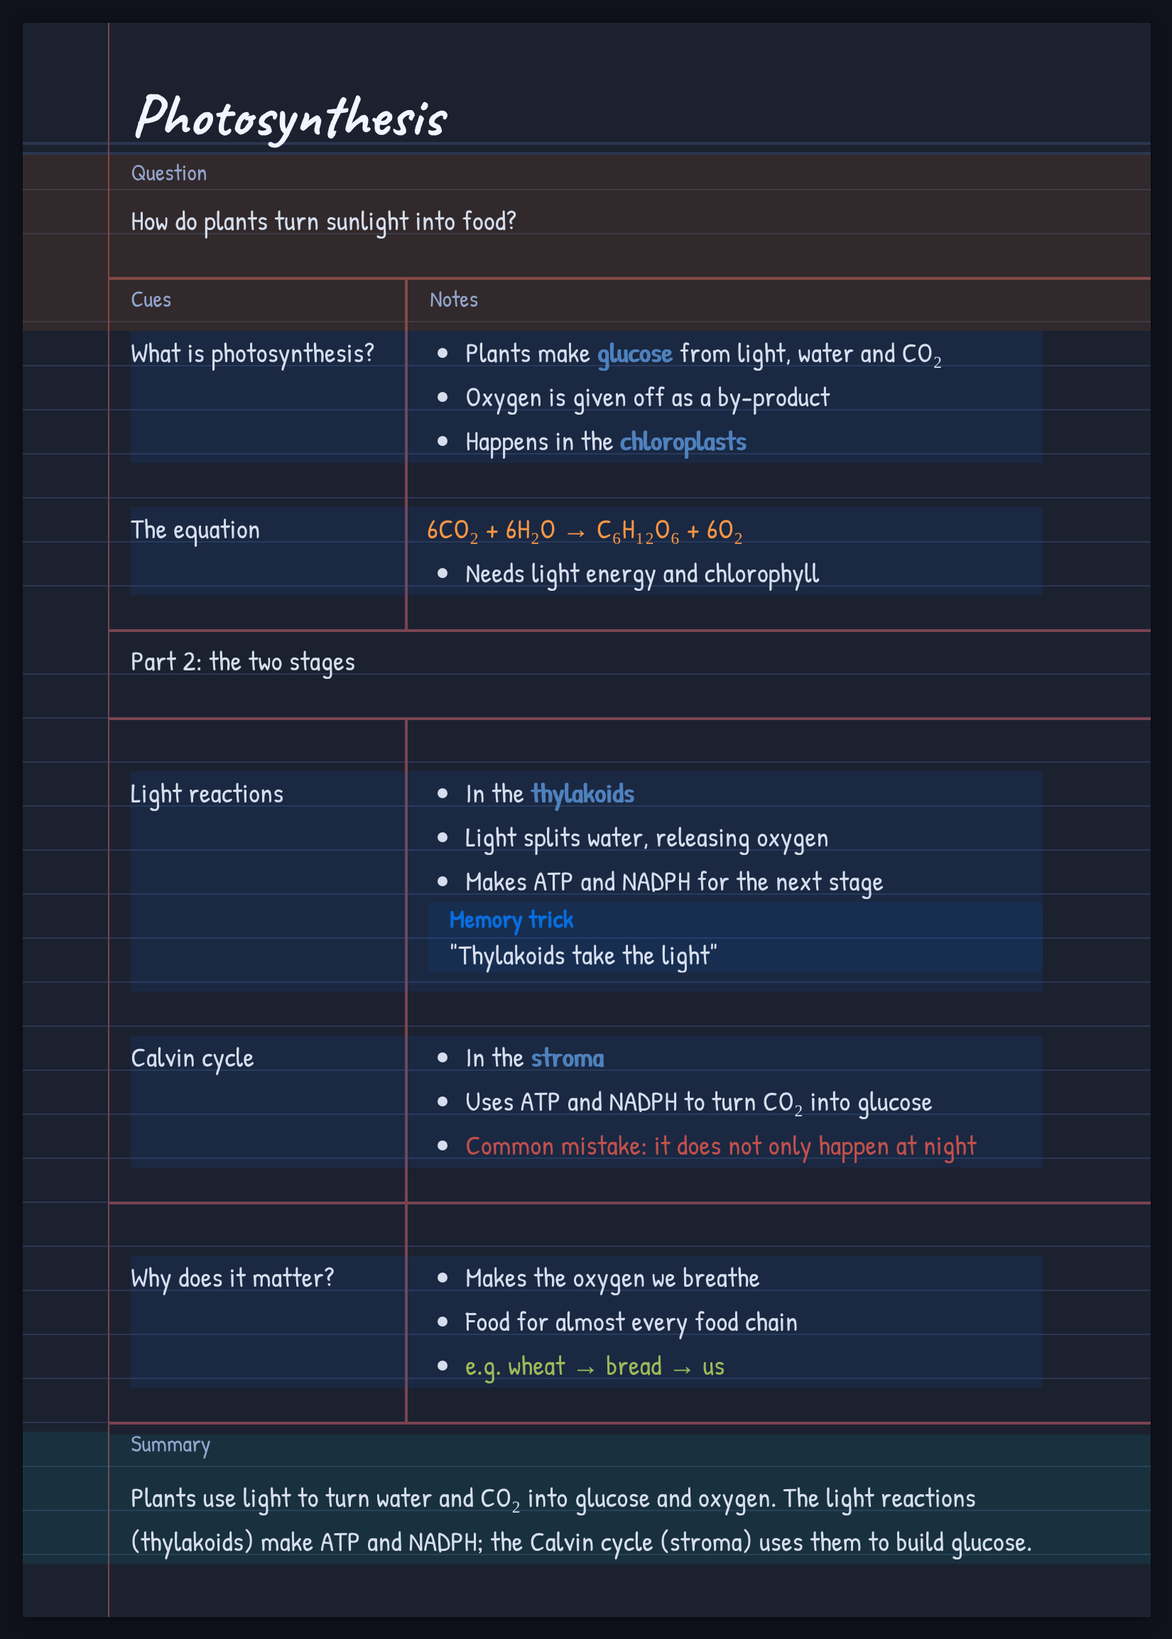
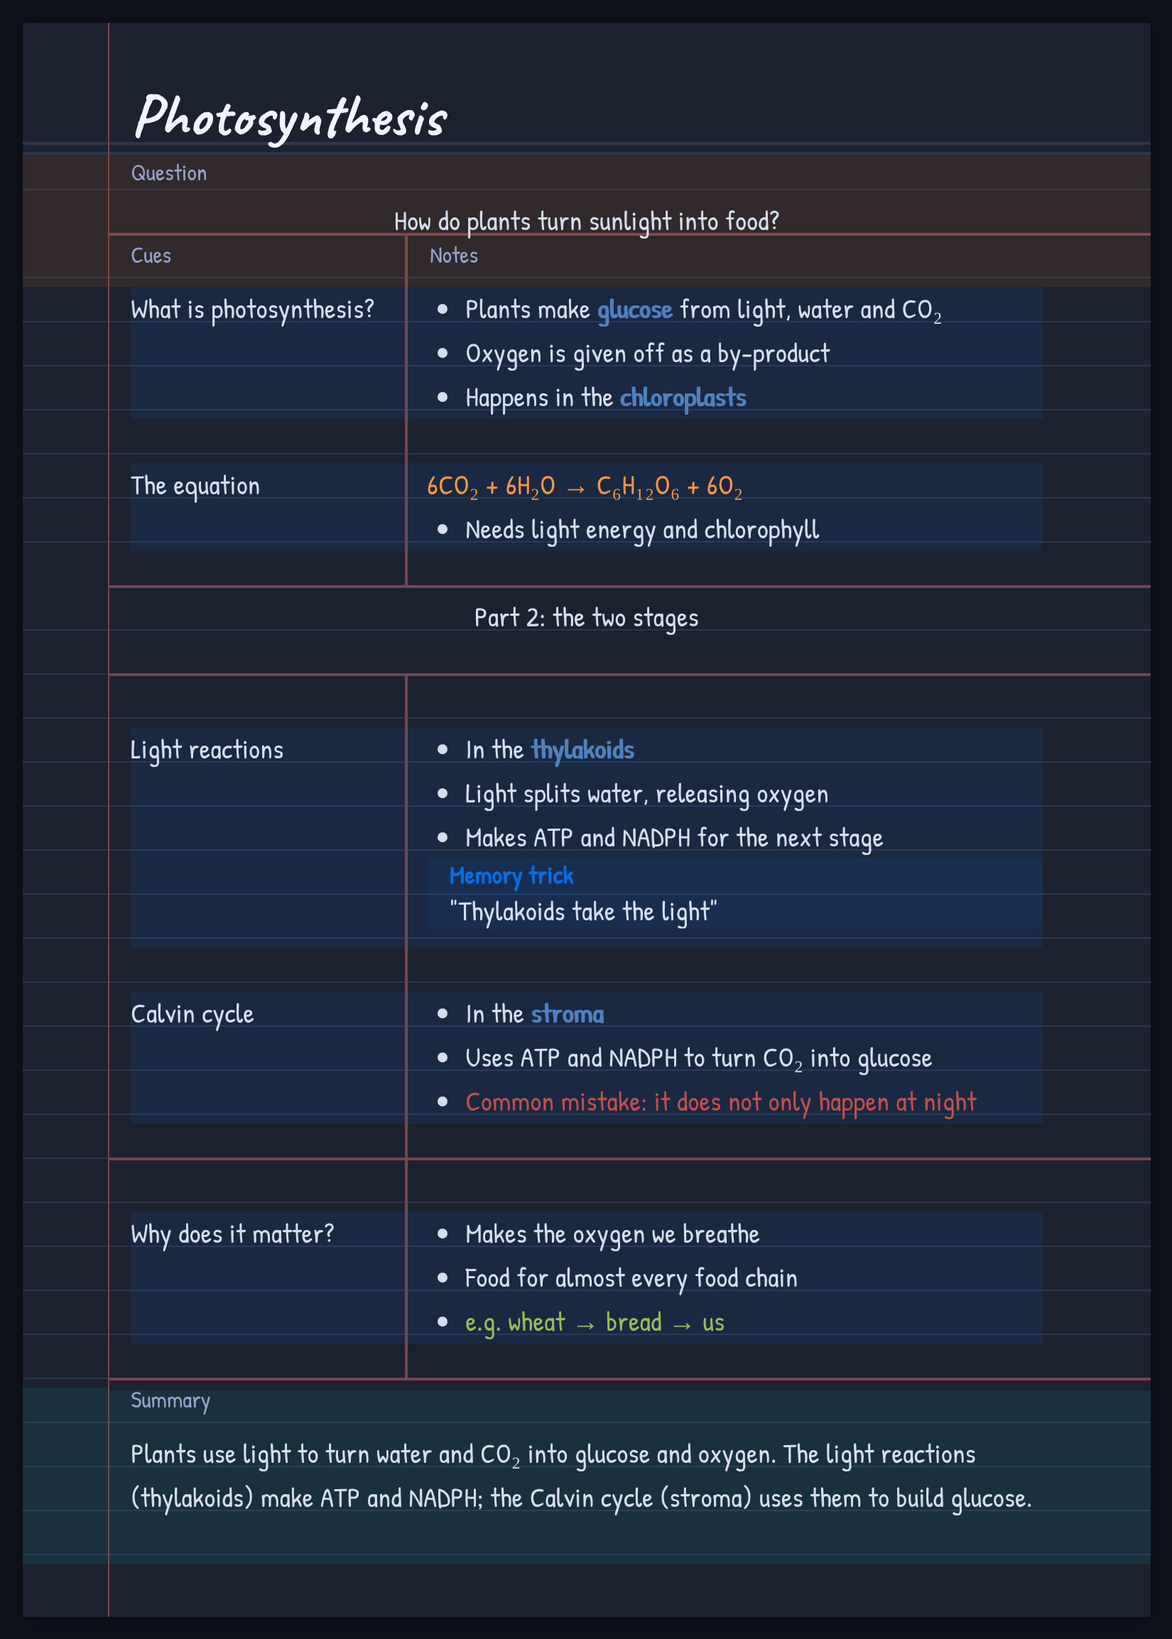
Centre the question and full-width lines; one-line question; fit titles
- The text of [!question] and [!wide] is centred (setting to put it on
  the left); [!question] keeps 1 line by default.
- A title that fits stays on one line: measured against the real bar in
  reading view and again when web fonts finish loading; a note without a
  date gives the title the date's room.
- Tests for the title rules.

Claude-Session: https://claude.ai/code/session_017nigWqws9EFca1zJKhGji6

diff --git a/main.js b/main.js
@@ -52,12 +52,14 @@ const SETTINGS = [
   { section: 'Cornell notes' },
   { key: 'cn-cue', type: 'slider', min: 0.15, max: 0.5, step: 0.01, def: 0.3, pct: true, name: 'Cue column width',
     desc: 'Share of the page for the cue column (left of the divider).' },
-  { key: 'cn-question-lines', type: 'slider', min: 1, max: 6, step: 1, def: 2, name: 'Essential question lines',
+  { key: 'cn-question-lines', type: 'slider', min: 1, max: 6, step: 1, def: 1, name: 'Essential question lines',
     desc: 'Ruled lines kept for the [!question] at the top of the page.' },
   { key: 'cn-summary-rows', type: 'slider', min: 3, max: 15, step: 1, def: 5, name: 'Summary height',
     desc: 'Lines the [!summary] takes at the bottom of the last page, its "Summary" label included.' },
   { key: 'cn-summary-min-rows', type: 'slider', min: 2, max: 5, step: 1, def: 3, name: 'Summary minimum height',
     desc: 'When the notes need the room, the summary shrinks, but never below this (or below its text). If that does not fit, it moves to a new page.' },
+  { key: 'centre', type: 'toggle', cls: 'cn-question-left', invert: true, def: true, name: 'Centre the question and full-width lines',
+    desc: 'The text of [!question] and [!wide] in the middle of the page. Off: it starts on the left.' },
   { key: 'cn-wide-lines', type: 'slider', min: 1, max: 6, step: 1, def: 2, name: 'Full-width block lines',
     desc: 'Ruled lines a [!wide] block keeps at least. It grows with longer text.' },
   { key: 'cn-label-cue', type: 'text', def: 'Cues', quote: true, name: 'Cue column label' },
@@ -158,10 +160,12 @@ function addSummarySizer(root) {
 // the embed. The copy goes first in the block so it is laid out like any other callout.
 // `undo` (reading view only) collects what to take away again before the next layout.
 // A note title too long for the title bar goes on two lines, a little smaller, instead of being cut
-// off (lined-paper.css: h1.lp-title-wrap). CSS can't tell whether text fits, so it is measured
-// here: the title's width on one line, in units of its font size, against the room in an A4 title
-// bar (the sheet minus the margin and the date's space) at the A4 title size. That holds for
-// reading view and the PDF alike, whatever the window is like while the export is being prepared.
+// off (lined-paper.css: h1.lp-title-wrap); a title that fits stays on one line at full size. CSS
+// can't tell whether text fits, so it is measured here: the title's width on one line, in units of
+// its font size, at the A4 title size, against the room in an A4 title bar (the sheet minus the
+// title's own padding: the margin, and the date's space when the note has a date), so it holds for
+// the PDF whatever the window is like while the export is being prepared; in reading view, against
+// the bar on screen. Measured again once the web fonts have loaded.
 function fitTitles(root, undo) {
   for (const h of root.querySelectorAll('h1')) {
     const view = h.closest('.markdown-preview-view.lined-paper');
@@ -170,14 +174,17 @@ function fitTitles(root, undo) {
     if (had) h.classList.remove('lp-title-wrap');                 // (measured on one line)
     const range = document.createRange();
     range.selectNodeContents(h);
-    const size = parseFloat(getComputedStyle(h).fontSize);
+    const cs = getComputedStyle(h);
+    const size = parseFloat(cs.fontSize);
     let wrap = false;
-    if (size) {
-      if (document.body.classList.contains('lp-no-pages') && view.closest('.markdown-reading-view')) {
-        wrap = h.scrollWidth > h.clientWidth + 1;                 // (no A4 pages: the bar is the pane's width)
+    if (size && h.textContent.trim()) {
+      if (view.closest('.markdown-reading-view')) {
+        // reading view: the bar on screen is the real one (an A4 sheet, or the pane without A4 pages)
+        wrap = range.getBoundingClientRect().width > h.clientWidth - parseFloat(cs.paddingLeft) - parseFloat(cs.paddingRight) + 1;
       } else {
-        const room = px(view, '210mm') - px(view, 'var(--pad-x)') - 200;   // (200px: the date's space, as in the CSS)
-        wrap = (range.getBoundingClientRect().width / size) * px(view, 'calc(var(--lp-title, 48px) * var(--print-scale))') > room;
+        const room = px(view, '210mm') - parseFloat(cs.paddingLeft) - parseFloat(cs.paddingRight);
+        const needed = (range.getBoundingClientRect().width / size) * px(view, 'calc(var(--lp-title, 48px) * var(--print-scale))');
+        wrap = needed > room + 1;
       }
     }
     if (wrap) {
@@ -488,6 +495,12 @@ module.exports = class LinedPaperPages extends Plugin {
     };
     this.setDpr();
     this.registerDomEvent(window, 'resize', () => { this.setDpr(); again(); });
+    // the handwriting fonts load from the web: once they are in, titles are measured again
+    if (document.fonts && document.fonts.addEventListener) {
+      const fonts = () => { for (const pr of document.querySelectorAll('.print')) fitTitles(pr); again(); };
+      document.fonts.addEventListener('loadingdone', fonts);
+      this.register(() => document.fonts.removeEventListener('loadingdone', fonts));
+    }
     // a picture's size is only known once it has loaded: lay the pages out again then
     this.registerDomEvent(document, 'load', (e) => {
       const view = e.target && e.target.tagName === 'IMG' && e.target.closest(SEL_VIEW);

diff --git a/styles.css b/styles.css
@@ -1077,6 +1077,10 @@ settings:
   overflow: hidden;
   text-overflow: ellipsis;
 }
+/* No date in the note's properties: the title may use the room the date would take */
+.markdown-preview-view.lined-paper:not(:has(.metadata-property[data-property-key="date"])) h1 {
+  padding-right: var(--pad-x) !important;
+}
 /* A title too long for one line (the plugin finds those): two lines in the same bar, a little
    smaller, never cut off with "…" */
 html body .lined-paper h1.lp-title-wrap.lp-title-wrap {
@@ -2970,11 +2974,16 @@ settings:
         max: 5
         step: 1
     -
+        id: cn-question-left
+        title: Question and full-width lines on the left
+        description: The text of [!question] and [!wide] is centred. Switch this on to start it on the left instead.
+        type: class-toggle
+    -
         id: cn-question-lines
         title: Essential question height
         description: Ruled lines for the question text (the "Question" label row above and the Cues | Notes row below are extra).
         type: variable-number-slider
-        default: 2
+        default: 1
         min: 1
         max: 6
         step: 1
@@ -3034,7 +3043,7 @@ settings:
   --summary-rows: var(--cn-summary-rows, 5);       /* summary height in rows, label row included: always the LAST rows of the body */
   --summary-min-rows: var(--cn-summary-min-rows, 3); /* smallest the summary may shrink to when the notes need the room (label row included) */
   --summary-lines: calc(var(--summary-rows) - 1);  /* writing lines under the label row (used by the on-screen layout) */
-  --question-lines: var(--cn-question-lines, 2);   /* [!question] writing lines (label row + Cues | Notes row are extra) */
+  --question-lines: var(--cn-question-lines, 1);   /* [!question] writing lines (label row + Cues | Notes row are extra) */
   --cue-ink: var(--ink);                           /* cue text colour; set a colour here for a 2nd pen, e.g. #1d4ed8 */
   --divider: var(--margin);                        /* divider + summary rule colour */
   --divider-x: calc(var(--pad-x) + (100% - var(--pad-x) * 2) * var(--cue));   /* where the divider is (derived) */
@@ -4125,4 +4134,21 @@ html body .markdown-source-view.lined-paper .callout.callout.callout[data-callou
 .lined-paper.cornell :is(.callout[data-callout="cue"], .callout[data-callout="notes"]) > .callout-content > :is(.callout, blockquote > .callout).callout.callout,
 .lined-paper.cornell :is(.callout[data-callout="cue"], .callout[data-callout="notes"]) > .callout-content > p :is(.internal-embed, .markdown-embed) :is(.markdown-preview-section > div, .markdown-embed-content, .markdown-embed-content > div) > .callout.callout {
   margin-block-end: 0 !important;
+}
+
+/* =====================================================================
+   THE QUESTION AND FULL-WIDTH LINES: CENTRED
+   =====================================================================
+   The text of [!question] and [!wide] is centred on the page, like a heading across both columns
+   ("Question and full-width lines on the left" in the settings puts it back on the left). A list
+   in them keeps its bullets next to its text. Callouts inside them keep their own alignment. */
+body:not(.cn-question-left) .lined-paper.cornell .callout:is([data-callout="question"], [data-callout="wide"]) > .callout-content > :is(p, h2, h3, h4, h5, h6, ul, ol) {
+  text-align: center !important;
+}
+body:not(.cn-question-left) .lined-paper.cornell .callout:is([data-callout="question"], [data-callout="wide"]) > .callout-content > :is(ul, ol) {
+  list-style-position: inside;
+  padding-inline-start: 0 !important;
+}
+body:not(.cn-question-left) .lined-paper.cornell .callout:is([data-callout="question"], [data-callout="wide"]) > .callout-content > :is(ul, ol) > li {
+  text-align: center !important;
 }

diff --git a/snippets/cornell-notes.css b/snippets/cornell-notes.css
@@ -127,11 +127,16 @@ settings:
         max: 5
         step: 1
     -
+        id: cn-question-left
+        title: Question and full-width lines on the left
+        description: The text of [!question] and [!wide] is centred. Switch this on to start it on the left instead.
+        type: class-toggle
+    -
         id: cn-question-lines
         title: Essential question height
         description: Ruled lines for the question text (the "Question" label row above and the Cues | Notes row below are extra).
         type: variable-number-slider
-        default: 2
+        default: 1
         min: 1
         max: 6
         step: 1
@@ -191,7 +196,7 @@ settings:
   --summary-rows: var(--cn-summary-rows, 5);       /* summary height in rows, label row included: always the LAST rows of the body */
   --summary-min-rows: var(--cn-summary-min-rows, 3); /* smallest the summary may shrink to when the notes need the room (label row included) */
   --summary-lines: calc(var(--summary-rows) - 1);  /* writing lines under the label row (used by the on-screen layout) */
-  --question-lines: var(--cn-question-lines, 2);   /* [!question] writing lines (label row + Cues | Notes row are extra) */
+  --question-lines: var(--cn-question-lines, 1);   /* [!question] writing lines (label row + Cues | Notes row are extra) */
   --cue-ink: var(--ink);                           /* cue text colour; set a colour here for a 2nd pen, e.g. #1d4ed8 */
   --divider: var(--margin);                        /* divider + summary rule colour */
   --divider-x: calc(var(--pad-x) + (100% - var(--pad-x) * 2) * var(--cue));   /* where the divider is (derived) */
@@ -1282,4 +1287,21 @@ html body .markdown-source-view.lined-paper .callout.callout.callout[data-callou
 .lined-paper.cornell :is(.callout[data-callout="cue"], .callout[data-callout="notes"]) > .callout-content > :is(.callout, blockquote > .callout).callout.callout,
 .lined-paper.cornell :is(.callout[data-callout="cue"], .callout[data-callout="notes"]) > .callout-content > p :is(.internal-embed, .markdown-embed) :is(.markdown-preview-section > div, .markdown-embed-content, .markdown-embed-content > div) > .callout.callout {
   margin-block-end: 0 !important;
+}
+
+/* =====================================================================
+   THE QUESTION AND FULL-WIDTH LINES: CENTRED
+   =====================================================================
+   The text of [!question] and [!wide] is centred on the page, like a heading across both columns
+   ("Question and full-width lines on the left" in the settings puts it back on the left). A list
+   in them keeps its bullets next to its text. Callouts inside them keep their own alignment. */
+body:not(.cn-question-left) .lined-paper.cornell .callout:is([data-callout="question"], [data-callout="wide"]) > .callout-content > :is(p, h2, h3, h4, h5, h6, ul, ol) {
+  text-align: center !important;
+}
+body:not(.cn-question-left) .lined-paper.cornell .callout:is([data-callout="question"], [data-callout="wide"]) > .callout-content > :is(ul, ol) {
+  list-style-position: inside;
+  padding-inline-start: 0 !important;
+}
+body:not(.cn-question-left) .lined-paper.cornell .callout:is([data-callout="question"], [data-callout="wide"]) > .callout-content > :is(ul, ol) > li {
+  text-align: center !important;
 }

diff --git a/tests/settings.test.js b/tests/settings.test.js
@@ -52,7 +52,7 @@ function settingsPage(src) {
   class Plugin {
     constructor() { this.app = { workspace: { on: () => ({}), getLeavesOfType: () => [] } }; this.manifest = { version: 'test' }; }
     loadData() { return Promise.resolve(saved); } saveData(d) { saved = JSON.parse(JSON.stringify(d)); return Promise.resolve(); }
-    addSettingTab(t) { this.tab = t; } addCommand() {} registerEvent() {} registerDomEvent() {} registerInterval() {} registerMarkdownPostProcessor() {} registerEditorExtension() {}
+    addSettingTab(t) { this.tab = t; } addCommand() {} registerEvent() {} register() {} registerDomEvent() {} registerInterval() {} registerMarkdownPostProcessor() {} registerEditorExtension() {}
   }
   const module = { exports: {} };
   new Function('require', 'module', src)(() => ({ Plugin, Notice: class {}, PluginSettingTab, Setting }), module);
@@ -163,7 +163,7 @@ test('old snippets still switched on: a one-time hint', async () => {
         class Plugin {
           constructor() { this.app = { workspace: { on: () => ({}), onLayoutReady: (f) => f(), getLeavesOfType: () => [] }, customCss: { enabledSnippets: new Set(enabled) } }; }
           loadData() { return Promise.resolve(JSON.parse(JSON.stringify(saved))); } saveData(d) { saved = JSON.parse(JSON.stringify(d)); return Promise.resolve(); }
-          addSettingTab() {} addCommand() {} registerEvent() {} registerDomEvent() {} registerInterval() {} registerMarkdownPostProcessor() {} registerEditorExtension() {}
+          addSettingTab() {} addCommand() {} registerEvent() {} register() {} registerDomEvent() {} registerInterval() {} registerMarkdownPostProcessor() {} registerEditorExtension() {}
         }
         const module = { exports: {} };
         new Function('require', 'module', src)(() => ({ Plugin, PluginSettingTab: class {}, Setting: class {}, Notice: class { constructor(m) { notices.push(m); } } }), module);

diff --git a/tests/editor.test.js b/tests/editor.test.js
@@ -79,7 +79,7 @@ test('editing view: <font color>[[link]]</font> shows coloured, its link opens, 
     // the plugin hands its editor extension to Obsidian; here it goes into a real CodeMirror editor
     const r = await page.evaluate((src) => {
       const opened = [];
-      class Plugin { constructor() { this.app = { workspace: { on: () => ({}), openLinkText: (h) => opened.push(h), getLeavesOfType: () => [] } }; } loadData() { return Promise.resolve({}); } saveData() {} addSettingTab() {} registerEvent() {} registerMarkdownPostProcessor() {} registerDomEvent() {} registerInterval() {} addCommand() {} registerEditorExtension(e) { window.__ext = e; } }
+      class Plugin { constructor() { this.app = { workspace: { on: () => ({}), openLinkText: (h) => opened.push(h), getLeavesOfType: () => [] } }; } loadData() { return Promise.resolve({}); } saveData() {} addSettingTab() {} registerEvent() {} register() {} registerMarkdownPostProcessor() {} registerDomEvent() {} registerInterval() {} addCommand() {} registerEditorExtension(e) { window.__ext = e; } }
       const mods = { obsidian: { Plugin, PluginSettingTab: class {}, Setting: class {}, Notice: class {} }, '@codemirror/view': CM.view, '@codemirror/state': CM.state };
       const module = { exports: {} };
       new Function('require', 'module', src)((n) => mods[n], module);

diff --git a/tests/layout.test.js b/tests/layout.test.js
@@ -134,3 +134,22 @@ for (const [mode, cssPaging] of MODES) {
     }
   });
 }
+
+// A title that fits stays on one line at full size; without a date in the note's properties it
+// may use the date's room. The same title wraps when the date takes that room.
+test('a title that fits stays on one line; the date\'s room is used when there is no date', async () => {
+  const { title, para } = require('./lib/notes');
+  const date = '<div class="metadata-container"><div class="metadata-properties"><div class="metadata-property" data-property-key="date"><div class="metadata-property-value">2026-10-26</div></div></div></div>';
+  const wraps = async (withDate) => {
+    const { page, context } = await openReading({ name: 'title', cornell: true, blocks: [...(withDate ? [date] : []), title('When Does Human Life Begin?'), para('x')] });
+    try {
+      return await page.evaluate(() => document.querySelector('h1').classList.contains('lp-title-wrap'));
+    } finally {
+      await context.close();
+    }
+  };
+  // (in the tests' fallback font this title is ~570px: wider than the bar with a date, 518px, and
+  // narrower than without, 642px)
+  assert.equal(await wraps(false), false, 'without a date it fits on one line');
+  assert.equal(await wraps(true), true, 'with a date it needs two lines');
+});

diff --git a/tests/lib/harness.js b/tests/lib/harness.js
@@ -52,7 +52,7 @@ function installPlugin({ src, exportMode, extra }) {
     constructor() { this.app = app; this.manifest = { version: 'test' }; }
     loadData() { return Promise.resolve({}); }
     saveData() { return Promise.resolve(); }
-    addSettingTab() {} addCommand() {} registerEvent() {} registerDomEvent() {} registerInterval() {} registerEditorExtension() {}
+    addSettingTab() {} addCommand() {} registerEvent() {} register() {} registerDomEvent() {} registerInterval() {} registerEditorExtension() {}
     registerMarkdownPostProcessor(f) { processors.push(f); }
   }
   const obsidian = { Plugin, PluginSettingTab: class {}, Setting: class {}, Notice: class { constructor(m) { console.error('NOTICE ' + m); } } };

diff --git a/snippets/lined-paper.css b/snippets/lined-paper.css
@@ -1009,6 +1009,10 @@ settings:
   overflow: hidden;
   text-overflow: ellipsis;
 }
+/* No date in the note's properties: the title may use the room the date would take */
+.markdown-preview-view.lined-paper:not(:has(.metadata-property[data-property-key="date"])) h1 {
+  padding-right: var(--pad-x) !important;
+}
 /* A title too long for one line (the plugin finds those): two lines in the same bar, a little
    smaller, never cut off with "…" */
 html body .lined-paper h1.lp-title-wrap.lp-title-wrap {

diff --git a/CHANGELOG.md b/CHANGELOG.md
@@ -6,6 +6,18 @@ All notable changes to this project are documented here. The format follows
 
 ## [Unreleased]
 
+## [1.9.2] - 2026-10-26
+
+### Changed
+- The text of `[!question]` and `[!wide]` is centred on the page (setting: *Centre the question
+  and full-width lines*).
+- `[!question]` keeps 1 line by default (was 2).
+- A note without a date gives its title the room the date would take.
+
+### Fixed
+- A title that fits on one line could still be put on two lines: it is now measured against the
+  real title bar in reading view, and again once the handwriting fonts have loaded.
+
 ## [1.9.1] - 2026-10-26
 
 ### Fixed
@@ -131,7 +143,8 @@ All notable changes to this project are documented here. The format follows
 1.0 – 1.6: lined paper and Cornell snippets, A4 pagination in reading view, the summary at the
 bottom of the last page, callouts and pictures on the rows, reading view matching the PDF export.
 
-[Unreleased]: ../../compare/1.9.1...HEAD
+[Unreleased]: ../../compare/1.9.2...HEAD
+[1.9.2]: ../../compare/1.9.1...1.9.2
 [1.9.1]: ../../compare/1.9.0...1.9.1
 [1.9.0]: ../../compare/1.8.1...1.9.0
 [1.8.1]: ../../compare/1.8.0...1.8.1

diff --git a/docs/settings.md b/docs/settings.md
@@ -6,7 +6,7 @@ button to put it back to its default, and **Reset all** resets everything.
 | Section | Settings |
 |---|---|
 | **Pages and text** | A4 pages in reading view (on/off) · Lines per page · Text size · Title size · Title position · Handwriting font · Title font · Underline links |
-| **Cornell notes** | Cue column width · Essential question lines · Summary height · Summary minimum height · Full-width block lines · Column labels · Labels on page 2, 3 … |
+| **Cornell notes** | Cue column width · Essential question lines (1) · Centre the question and full-width lines · Summary height · Summary minimum height · Full-width block lines · Column labels · Labels on page 2, 3 … |
 | **Callouts** | Callout box height (80 %) · Callout text size |
 | **Colours** | Paper · Ruled lines · Red margin line & divider · Text · Title · Labels · Heading underline · Desk |
 | **Advanced** *(hidden until you switch it on)* | Page height used · Text scale on the A4 page · Title bar height · Footer · Gap between pages · Page margins · Ruled line position · Callout lift · Divider spacing · … |

diff --git a/docs/writing-notes.md b/docs/writing-notes.md
@@ -47,6 +47,9 @@ Every Cornell block is a callout. Put a blank line between blocks.
 > What do I want to find out?
 ```
 
+It keeps **1 line** for the question (more in the settings, or more if the question is longer), and
+its text is centred on the page.
+
 ### Cue + notes *(as many as you like)*
 
 Write each pair as one group (recommended):
@@ -81,7 +84,8 @@ the cue column.
 ```
 
 The block spans the full width on plain paper (no callout background), with a red line above
-and below it. It is at least **2 lines** tall (change it in the settings) and grows with longer
+and below it, and its text centred (*Centre the question and full-width lines* in the settings puts
+it on the left). It is at least **2 lines** tall (change it in the settings) and grows with longer
 text. The Cues | Notes divider stops on its top red line and starts again under the bottom one,
 and the red margin line always runs through it.
 
